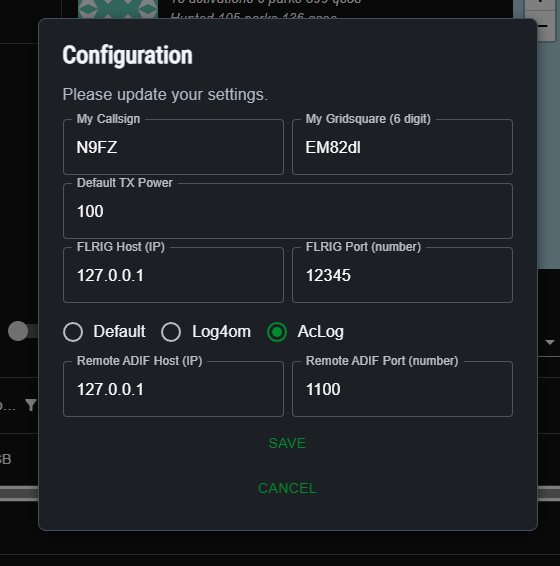
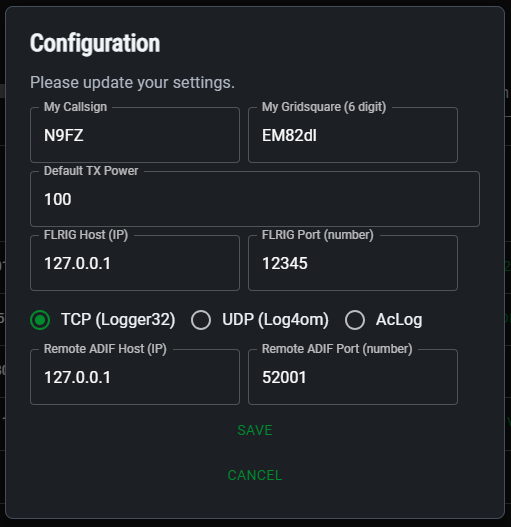
Fix #14 - add support for logging to Logger32
The default option has been replaced with a TCP options. The ADIF data
sent is the same but the socket type is now TCP as opposed to UDP. The
Log4om is renamed to UDP.

Also fix an order bug with upgrading the DB via alembic in the db init code.
If the _config_ table was updated it would error b/c init_config was called
before init_alembic_ver

diff --git a/src/components/Config/ConfigModal.tsx b/src/components/Config/ConfigModal.tsx
@@ -107,8 +107,8 @@ export default function ConfigModal() {
                         value={config?.logger_type}
                         onChange={handleChange}
                     >
-                        <FormControlLabel value="0" control={<Radio />} label="Default" />
-                        <FormControlLabel value="1" control={<Radio />} label="Log4om" />
+                        <FormControlLabel value="0" control={<Radio />} label="TCP (Logger32)" />
+                        <FormControlLabel value="1" control={<Radio />} label="UDP (Log4om)" />
                         <FormControlLabel value="2" control={<Radio />} label="AcLog" />
                     </RadioGroup>
                     <Stack direction={'row'} spacing={1}>

diff --git a/src/utils/adif.py b/src/utils/adif.py
@@ -34,8 +34,11 @@ class AdifLog():
             # more feature rich version that can pull in more QSO data, send to
             # LOTW, QRZ, etc (its FROM WD4DAN)
             adif = f"<CMD><ADDADIFRECORD><VALUE>{qso_adif}</VALUE></CMD>"
-        else:
+        elif config.logger_type == config.LoggerType.UdpLog4om.value:
             type = socket.SOCK_DGRAM
+            adif = self._get_adif(qso, config.my_call, config.my_grid6)
+        elif config.logger_type == config.LoggerType.Tcp.value:
+            type = socket.SOCK_STREAM
             adif = self._get_adif(qso, config.my_call, config.my_grid6)
         self._send_msg(adif, config.adif_host, config.adif_port, type)
         self.write_adif_log(adif)

diff --git a/src/db/db.py b/src/db/db.py
@@ -95,9 +95,12 @@ class DataBase:
         self._qq = QsoQuery(self.session)
         self._pq = ParkQuery(self.session)
         self._sq = SpotQuery(self.session, func=self._get_all_filters)
+
+        # do this FIRST. will upgrade the db to latest schema
+        self._iq.init_alembic_ver()
+
         self._sq.delete_all_spots()
         self._iq.init_config()
-        self._iq.init_alembic_ver()
 
         self.band_filter = Bands.NOBAND
         self.region_filter = None

diff --git a/src/db/models/user_config.py b/src/db/models/user_config.py
@@ -17,11 +17,11 @@ class UserConfig(Base):
     flr_port = sa.Column(sa.Integer)
     adif_host = sa.Column(sa.String)
     adif_port = sa.Column(sa.Integer)
-    logger_type = sa.Column(sa.Integer)
+    logger_type = sa.Column(sa.Integer, default=0)
 
     class LoggerType(Enum):
-        Default = 0
-        Log4om = 1
+        Tcp = 0
+        UdpLog4om = 1
         Aclog = 2
 
     def __repr__(self):

diff --git a/README.md b/README.md
@@ -53,8 +53,12 @@ the data wrapped in a different command. (Default and Log4om do the same thing c
 
 Remote ADIF Host and port:
 
-The remote endpoint data to send logged QSOs. Should be running Log4om or AClog
-or any other logger that accepts raw ADIF over UDP connections.
+The remote endpoint data to send logged QSOs. This computer should be running
+Logger32, Log4om, AClog, or any other logger that accepts raw ADIF over network
+connections.
+
+Select **TCP** for loggers that use a TCP socket (ex: Logger32), **UDP** for loggers that
+use a UDP (ex: Log4om), or **AcLog** for N3FJP's Amatuer contact logger.
 
 Click save to store the changes. Then click the refresh button on the main 
 screen to see your callsign and your configured Gravatar. You have a POTA 
